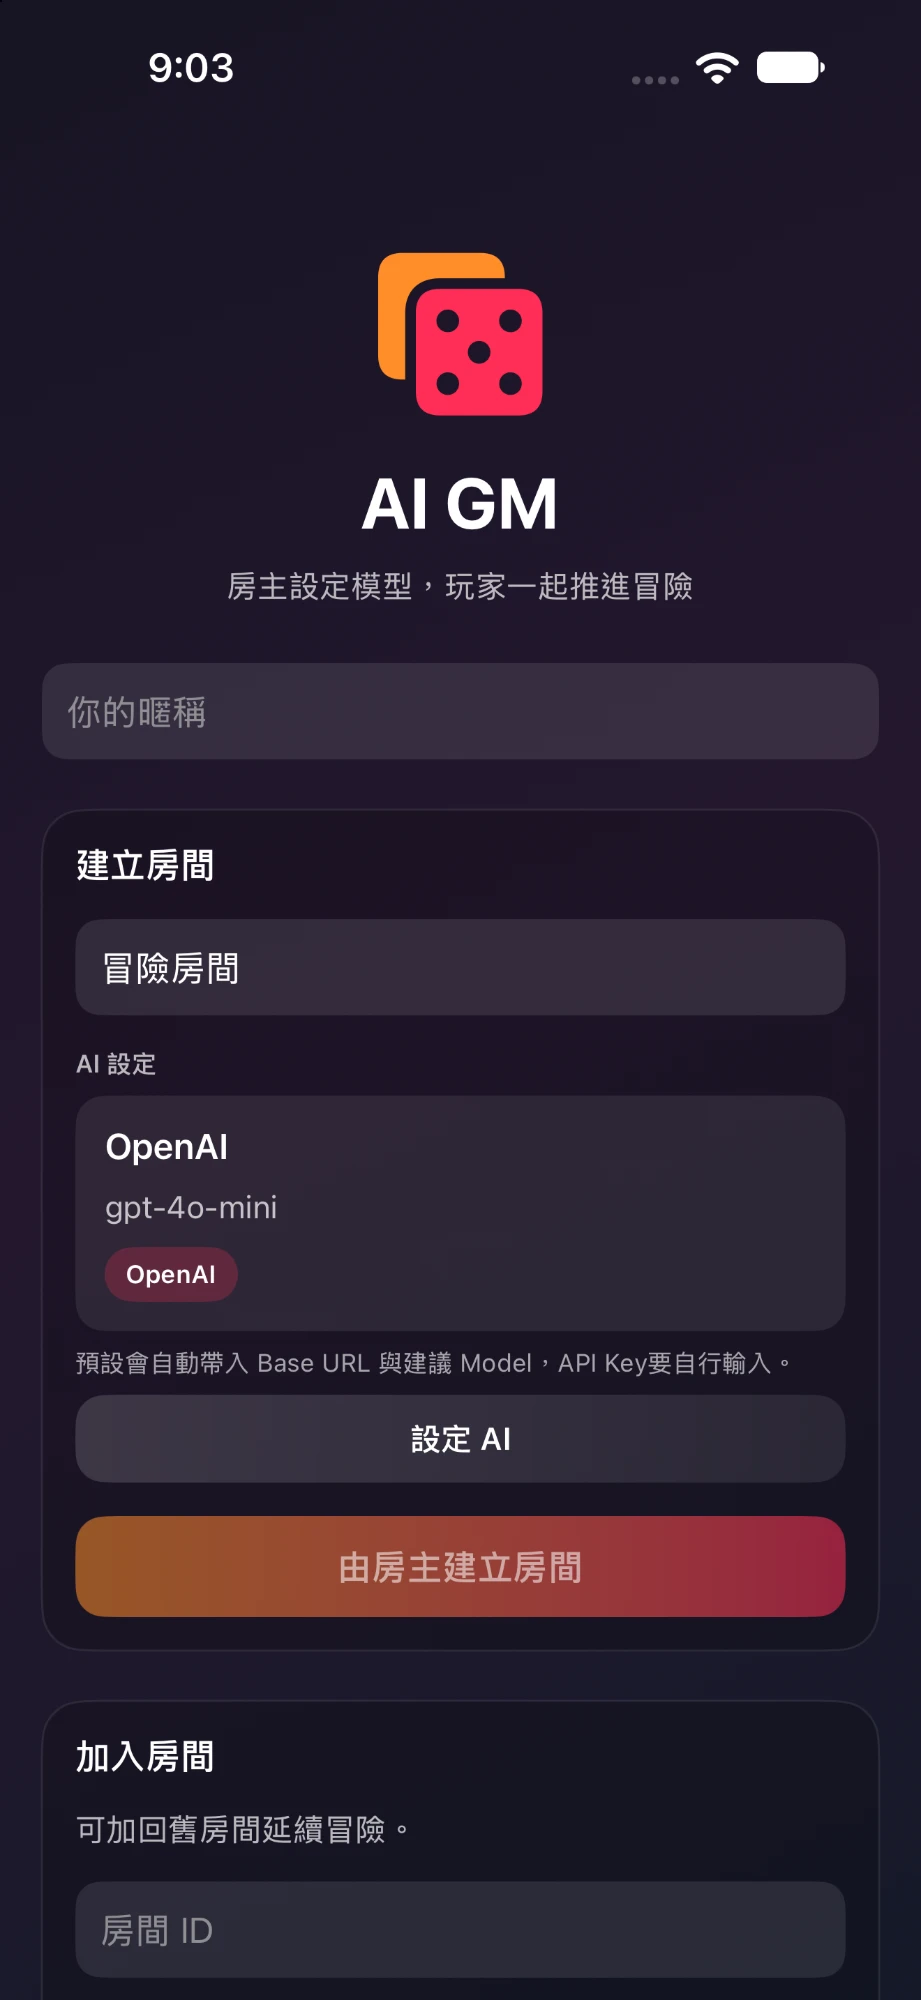
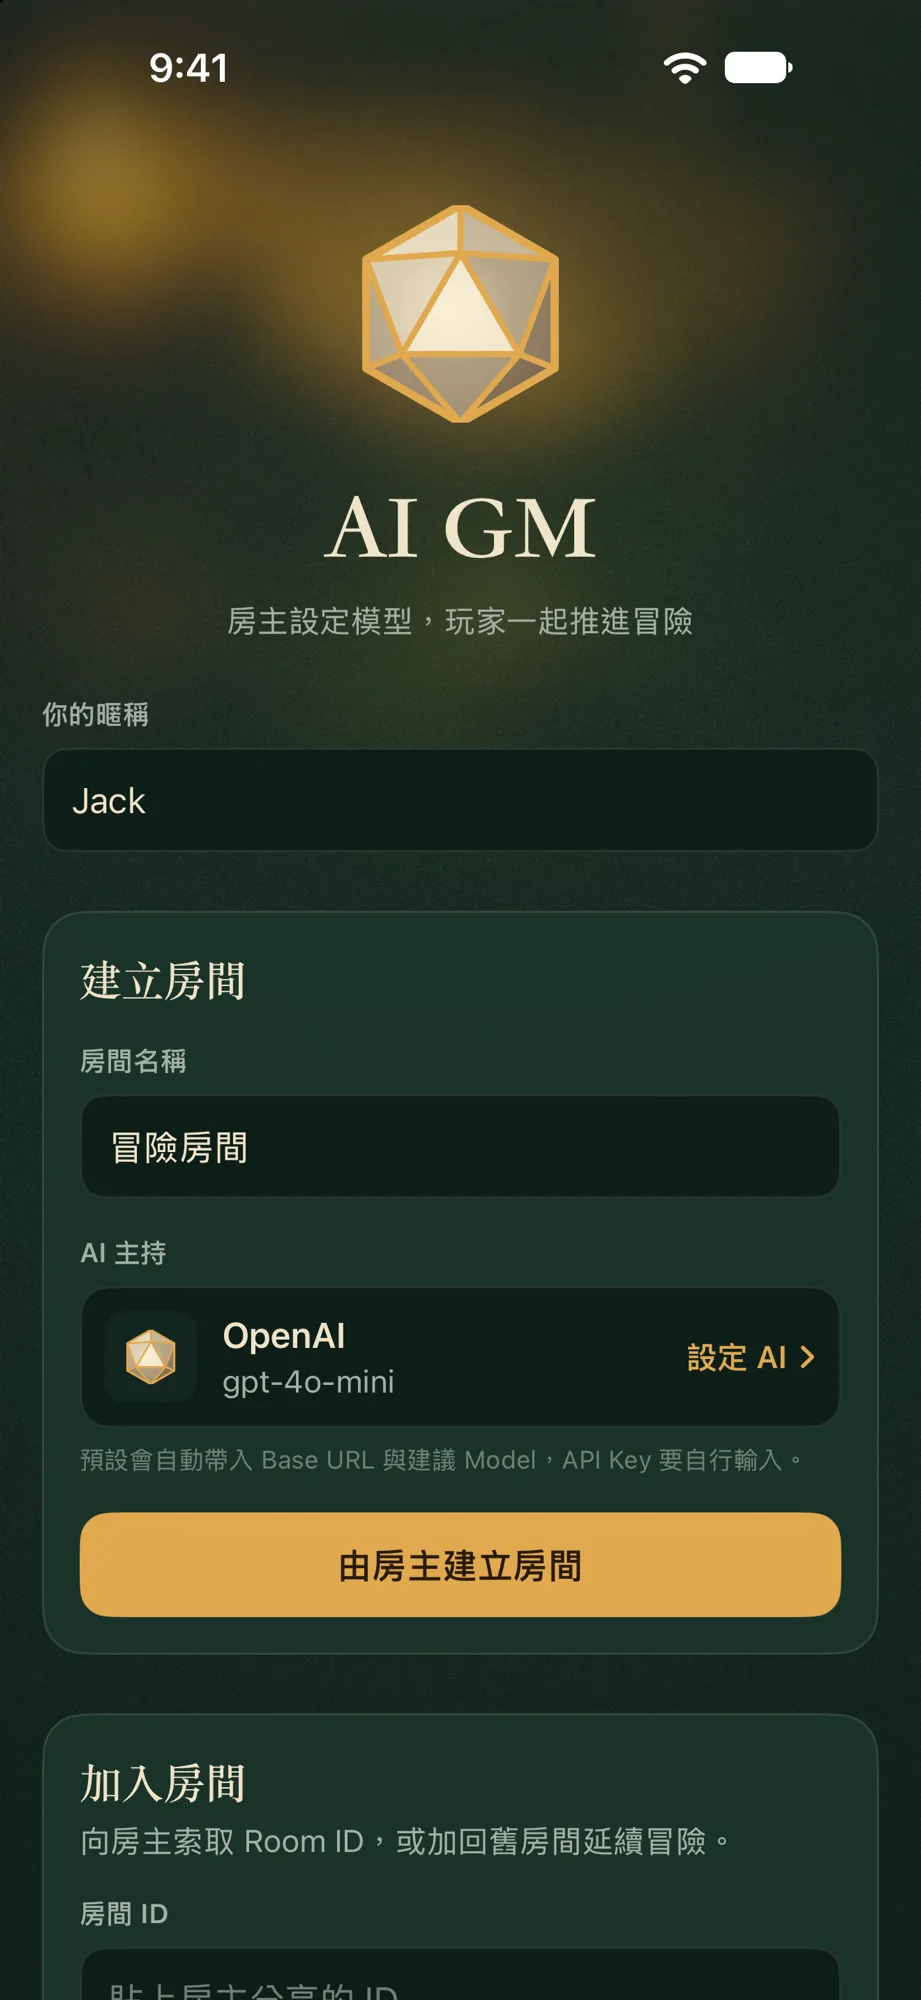
README 截圖更新為新 UI
- 7 張截圖以新的燭光桌布風格重拍
- 說明文字配合「隊伍」面板與書頁式敘事排版更新
- 專案結構補上 Theme、D20Emblem、PartyViews

diff --git a/README.md b/README.md
@@ -64,7 +64,7 @@
     <td align="center" width="33%"><img src="assets/screenshots/04-room-waiting.webp" width="230" alt="房間等待中"></td>
     <td valign="middle">
       <p>房間頂部顯示房間名稱、可一鍵複製的 <b>Room ID</b>，以及目前使用的 AI 供應商與 Model。</p>
-      <p>「房間與玩家狀態」面板列出所有玩家的屬性與確認狀態。玩家到齊後，房主點「<b>開始遊戲</b>」，AI 便會依角色與設定生成開場白。</p>
+      <p>「隊伍」列顯示所有玩家，點開可看每個人的 HP、屬性與確認狀態。玩家到齊後，房主點「<b>開始遊戲</b>」，AI 便會依角色與設定生成開場白。</p>
       <p>遊戲進行中，房主也可隨時點右上角的設定按鈕調整 AI 設定。</p>
     </td>
   </tr>
@@ -79,9 +79,9 @@
     <td align="center" width="33%"><img src="assets/screenshots/07-gm-narration.webp" width="230" alt="GM 敘事"></td>
   </tr>
   <tr>
-    <td align="center"><b>AI 開場</b><br><sub>每位玩家輸入本回合想做的事並確認</sub></td>
+    <td align="center"><b>AI 開場</b><br><sub>GM 敘事以書頁排版呈現，每位玩家輸入本回合想做的事並確認</sub></td>
     <td align="center"><b>全員確認</b><br><sub>確認後仍可「取消確認並編輯」；到齊後房主按「繼續」</sub></td>
-    <td align="center"><b>GM 結算</b><br><sub>AI 綜合所有人的行動生成敘事，進入下一回合</sub></td>
+    <td align="center"><b>GM 結算</b><br><sub>AI 綜合所有人的行動生成敘事，依回合分章並進入下一回合</sub></td>
   </tr>
 </table>
 
@@ -263,7 +263,10 @@ AI GM/
 │       ├── LobbyViewModel.swift       # 大廳邏輯
 │       ├── AISettingsSheet.swift      # AI 設定 Sheet
 │       ├── AISettingsViewModel.swift  # AI 設定邏輯
-│       ├── MessageBubbleView.swift    # 訊息氣泡元件
+│       ├── MessageBubbleView.swift    # 冒險紀錄排版（GM 敘事 / 玩家 / 系統）
+│       ├── PartyViews.swift           # 隊伍列：玩家頭像、HP 條、角色卡
+│       ├── D20Emblem.swift            # D20 骰子圖示與 AI 思考中動畫
+│       ├── Theme.swift                # 配色、宋體字型、桌布背景
 │       └── SharedComponents.swift     # 共用 UI 元件
 ├── AI GMTests/
 │   ├── AIServiceTests.swift               # AI 請求 / 回應 / 重試邏輯測試
